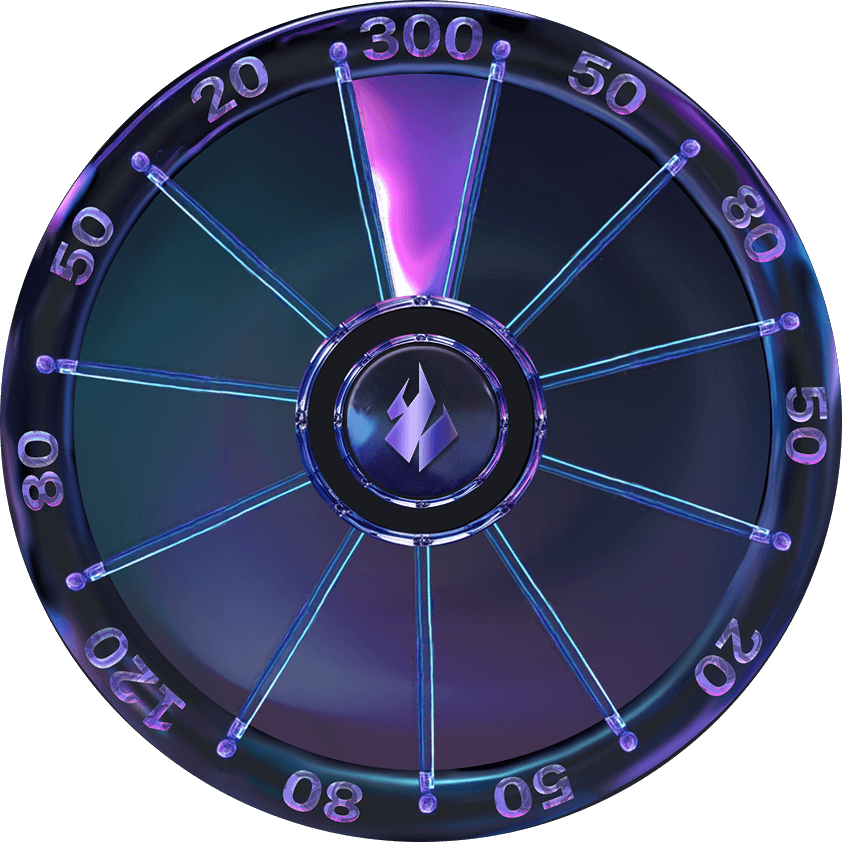
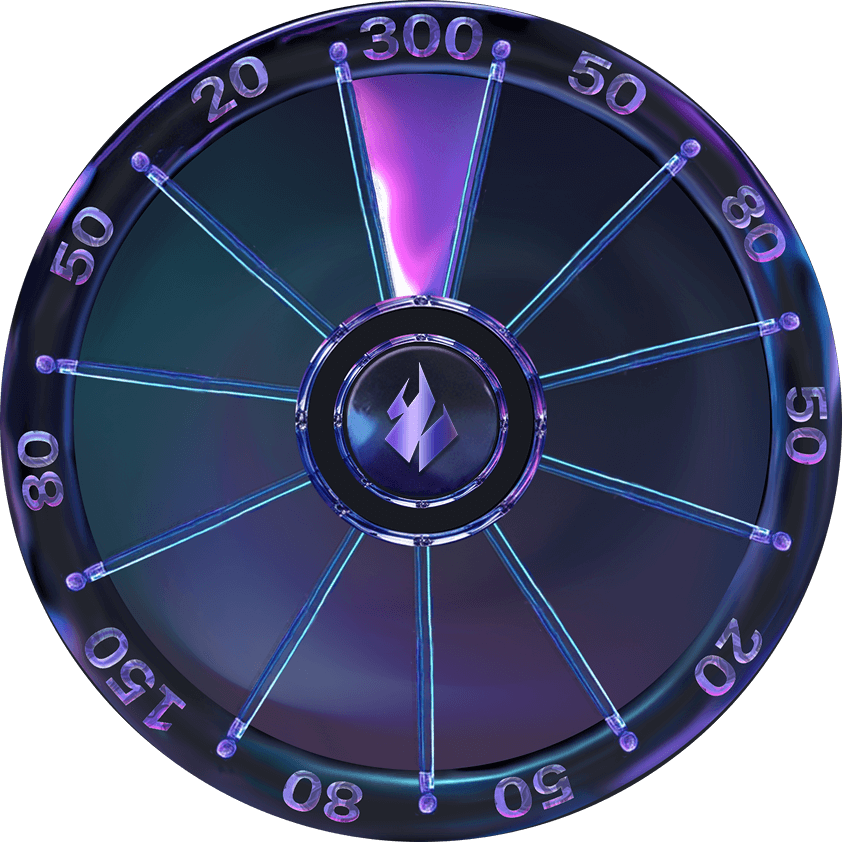
Update: wheel image and wheel data

Changed region(s): [[0.1235, 0.772, 0.2162, 0.8646]]

diff --git a/src/legends/modules/legends/components/WheelComponentModal/wheelData.ts b/src/legends/modules/legends/components/WheelComponentModal/wheelData.ts
@@ -1,56 +1,23 @@
 const WHEEL_PRIZE_DATA: {
   [key: number]: { from: number; to: number }[]
 } = {
-  300: [
-    {
-      from: 11,
-      to: -10
-    }
-  ],
-  150: [
-    {
-      from: -215,
-      to: -245
-    }
-  ],
+  300: [{ from: 5, to: -5 }], // covers top center
+  150: [{ from: -205, to: -215 }],
   80: [
-    {
-      from: -46,
-      to: -76
-    },
-    {
-      from: -181,
-      to: -211
-    },
-    {
-      from: -249,
-      to: -279
-    }
-  ],
-  20: [
-    { from: -114, to: -144 },
-    {
-      from: -317,
-      to: -347
-    }
+    { from: -55, to: -65 },
+    { from: -175, to: -185 },
+    { from: -235, to: -245 },
+    { from: -325, to: -335 }
   ],
   50: [
-    {
-      from: -11,
-      to: -43
-    },
-    {
-      from: -79,
-      to: -111
-    },
-    {
-      from: -147,
-      to: -178
-    },
-    {
-      from: -282,
-      to: -313
-    }
+    { from: -25, to: -35 },
+    { from: -85, to: -95 },
+    { from: -145, to: -155 },
+    { from: -265, to: -275 }
+  ],
+  20: [
+    { from: -115, to: -125 },
+    { from: -295, to: -305 }
   ]
 }
 
